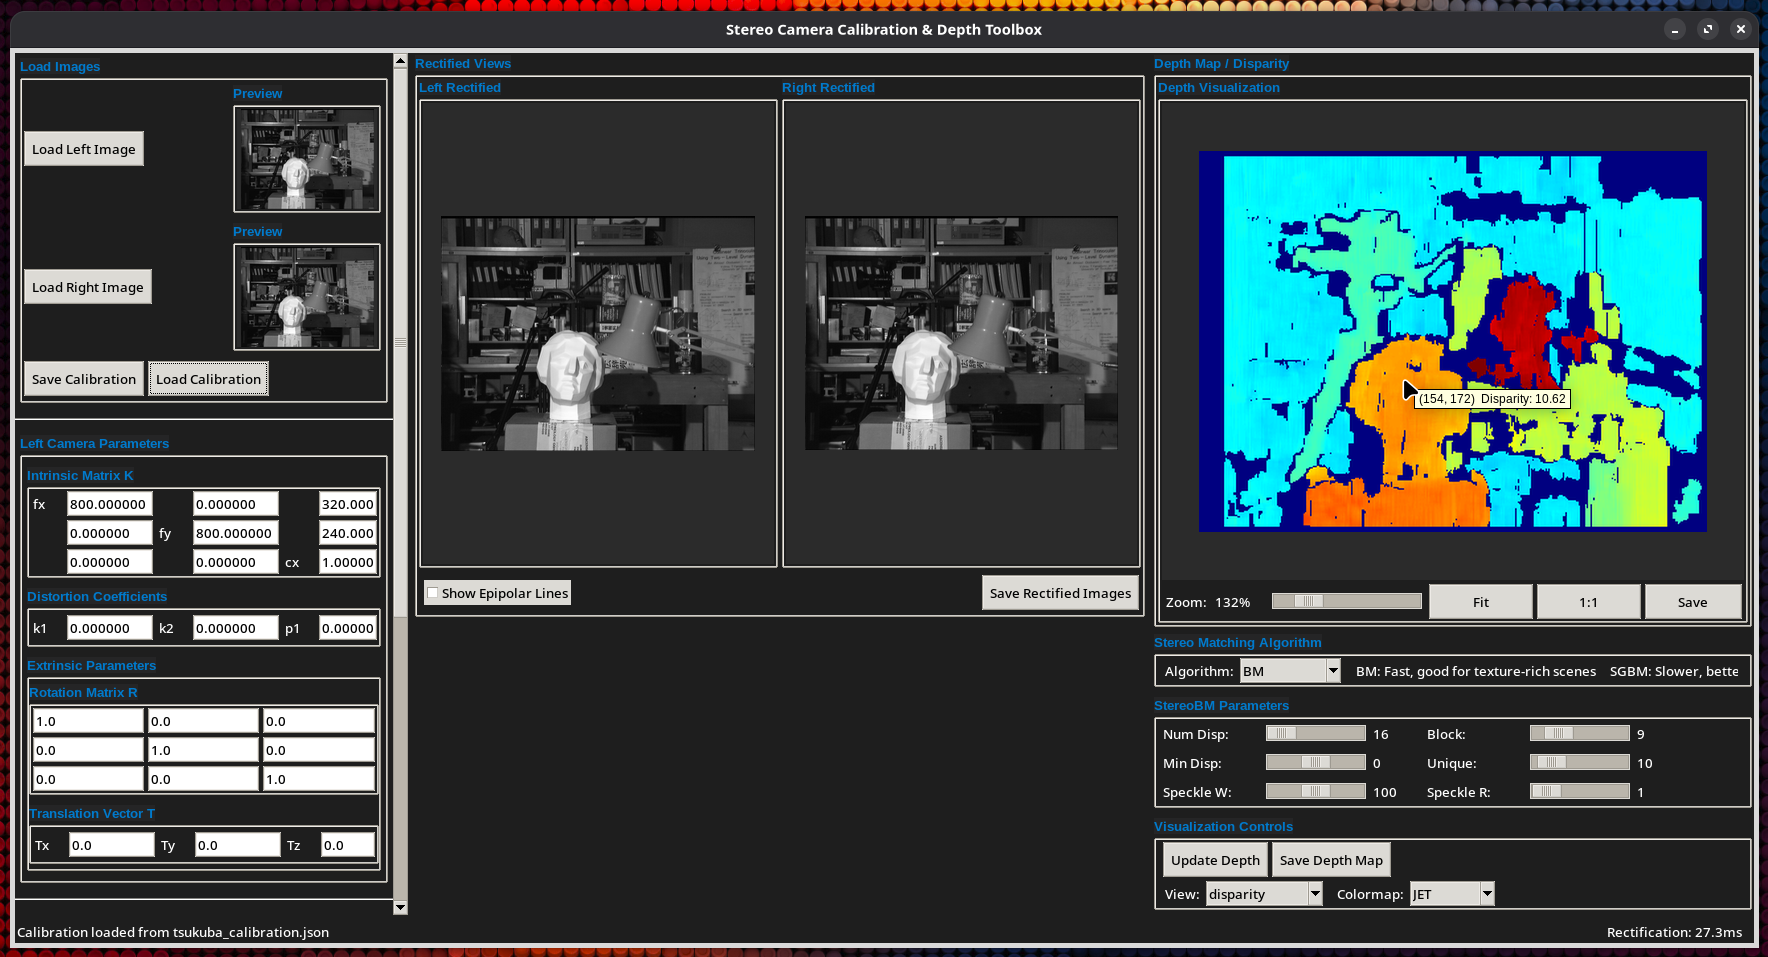
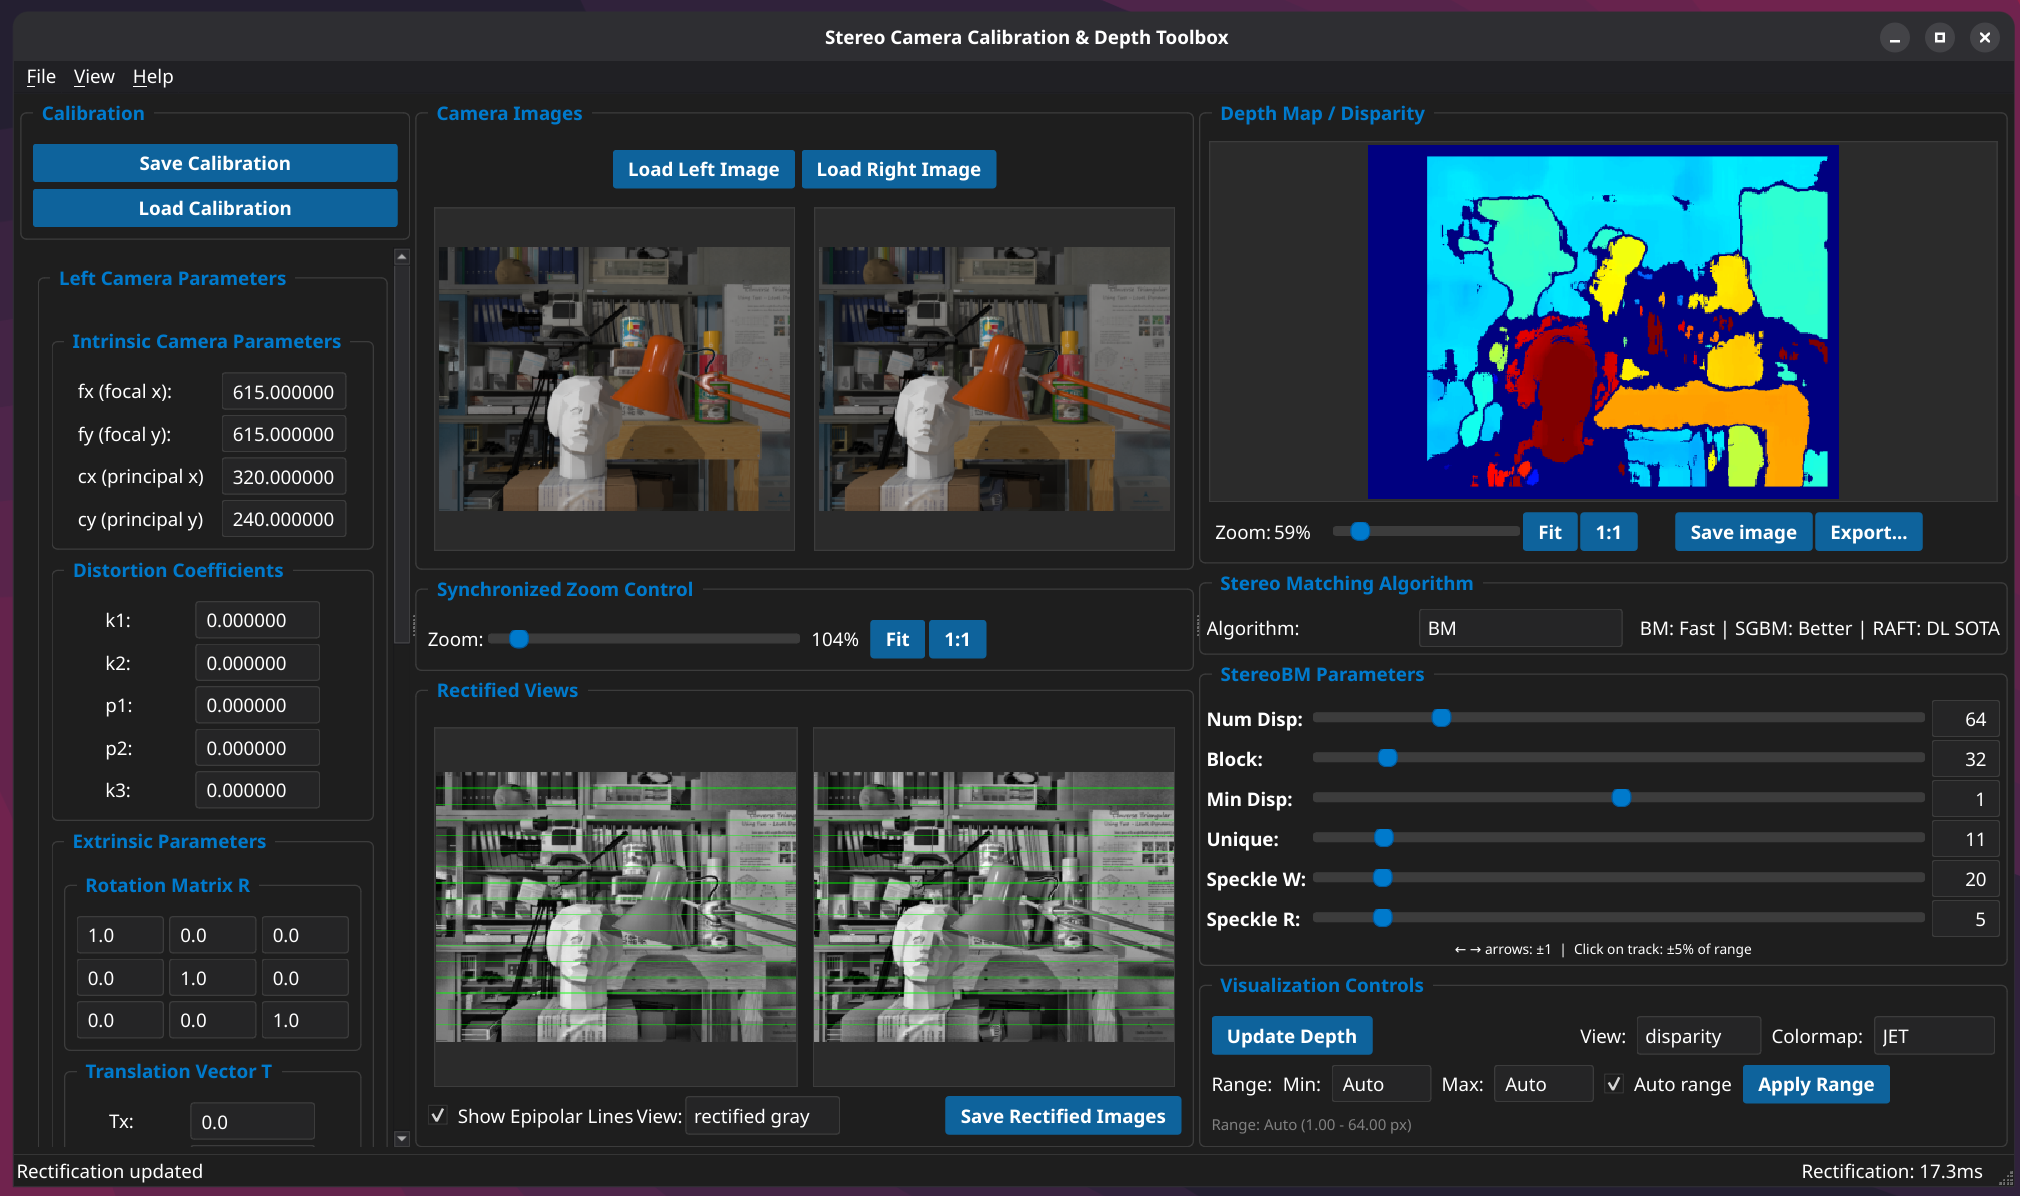
make export data clearer, also add to file menubar

diff --git a/gui/qt_main_window.py b/gui/qt_main_window.py
@@ -140,9 +140,13 @@ class StereoCalibrationGUI(QMainWindow):
         export_rectified_action.triggered.connect(self._save_rectified_images)
         file_menu.addAction(export_rectified_action)
 
-        export_depth_action = QAction("Export Depth Map...", self)
+        export_depth_action = QAction("Export Depth or Disparity Image...", self)
         export_depth_action.triggered.connect(self._save_depth_map)
         file_menu.addAction(export_depth_action)
+
+        export_data_action = QAction("Export Depth or Disparity Data...", self)
+        export_data_action.triggered.connect(self._export_depth_data)
+        file_menu.addAction(export_data_action)
 
         file_menu.addSeparator()
 

diff --git a/gui/qt_image_panel.py b/gui/qt_image_panel.py
@@ -118,7 +118,7 @@ class ImagePanel(QWidget):
         self._save_button = QPushButton("Save image")
         self._save_button.clicked.connect(self.save_image)
 
-        self._export_button = QPushButton("Export...")
+        self._export_button = QPushButton("Export data")
         self._export_button.clicked.connect(self.export_data)
 
         # Row 1: Zoom controls + Fit + 1:1 buttons
